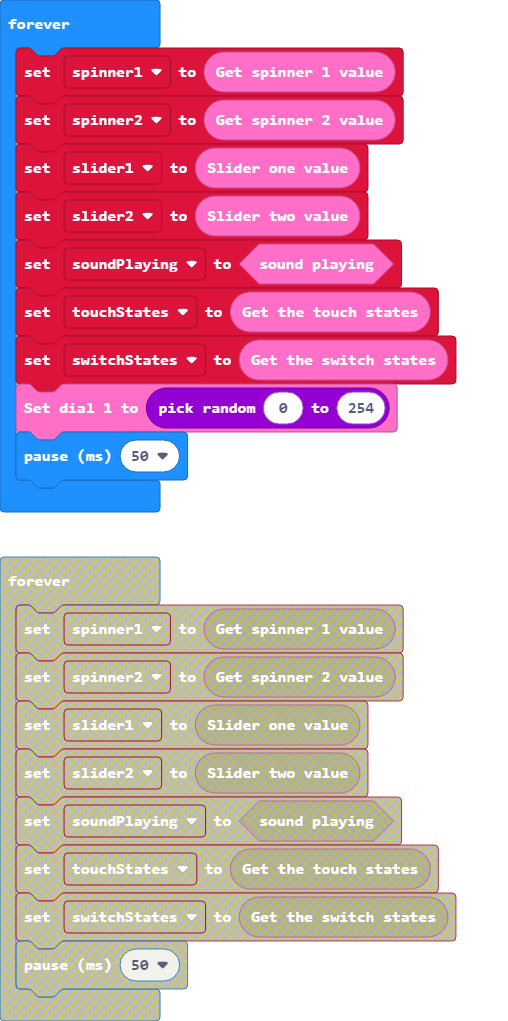
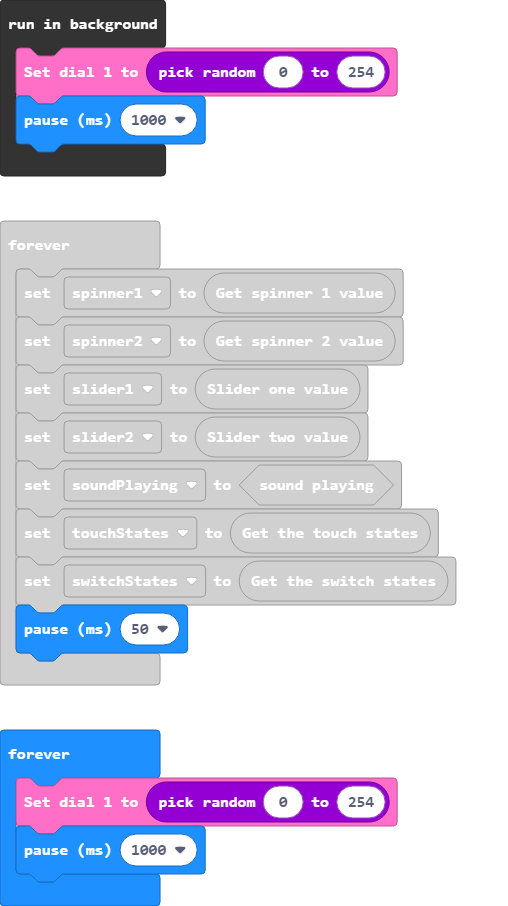
Update main.blocks, main.ts

diff --git a/main.ts b/main.ts
@@ -13,6 +13,9 @@ basic.forever(function () {
     soundPlaying = RainbowSparkleUnicorn.Sound.playingSound()
     touchStates = RainbowSparkleUnicorn.Touch.getTouchStates()
     switchStates = RainbowSparkleUnicorn.Switch.getSwitchStates()
-    RainbowSparkleUnicorn.Controls.dial1(randint(0, 254))
     basic.pause(50)
+})
+basic.forever(function () {
+    RainbowSparkleUnicorn.Controls.dial1(randint(0, 254))
+    basic.pause(1000)
 })
